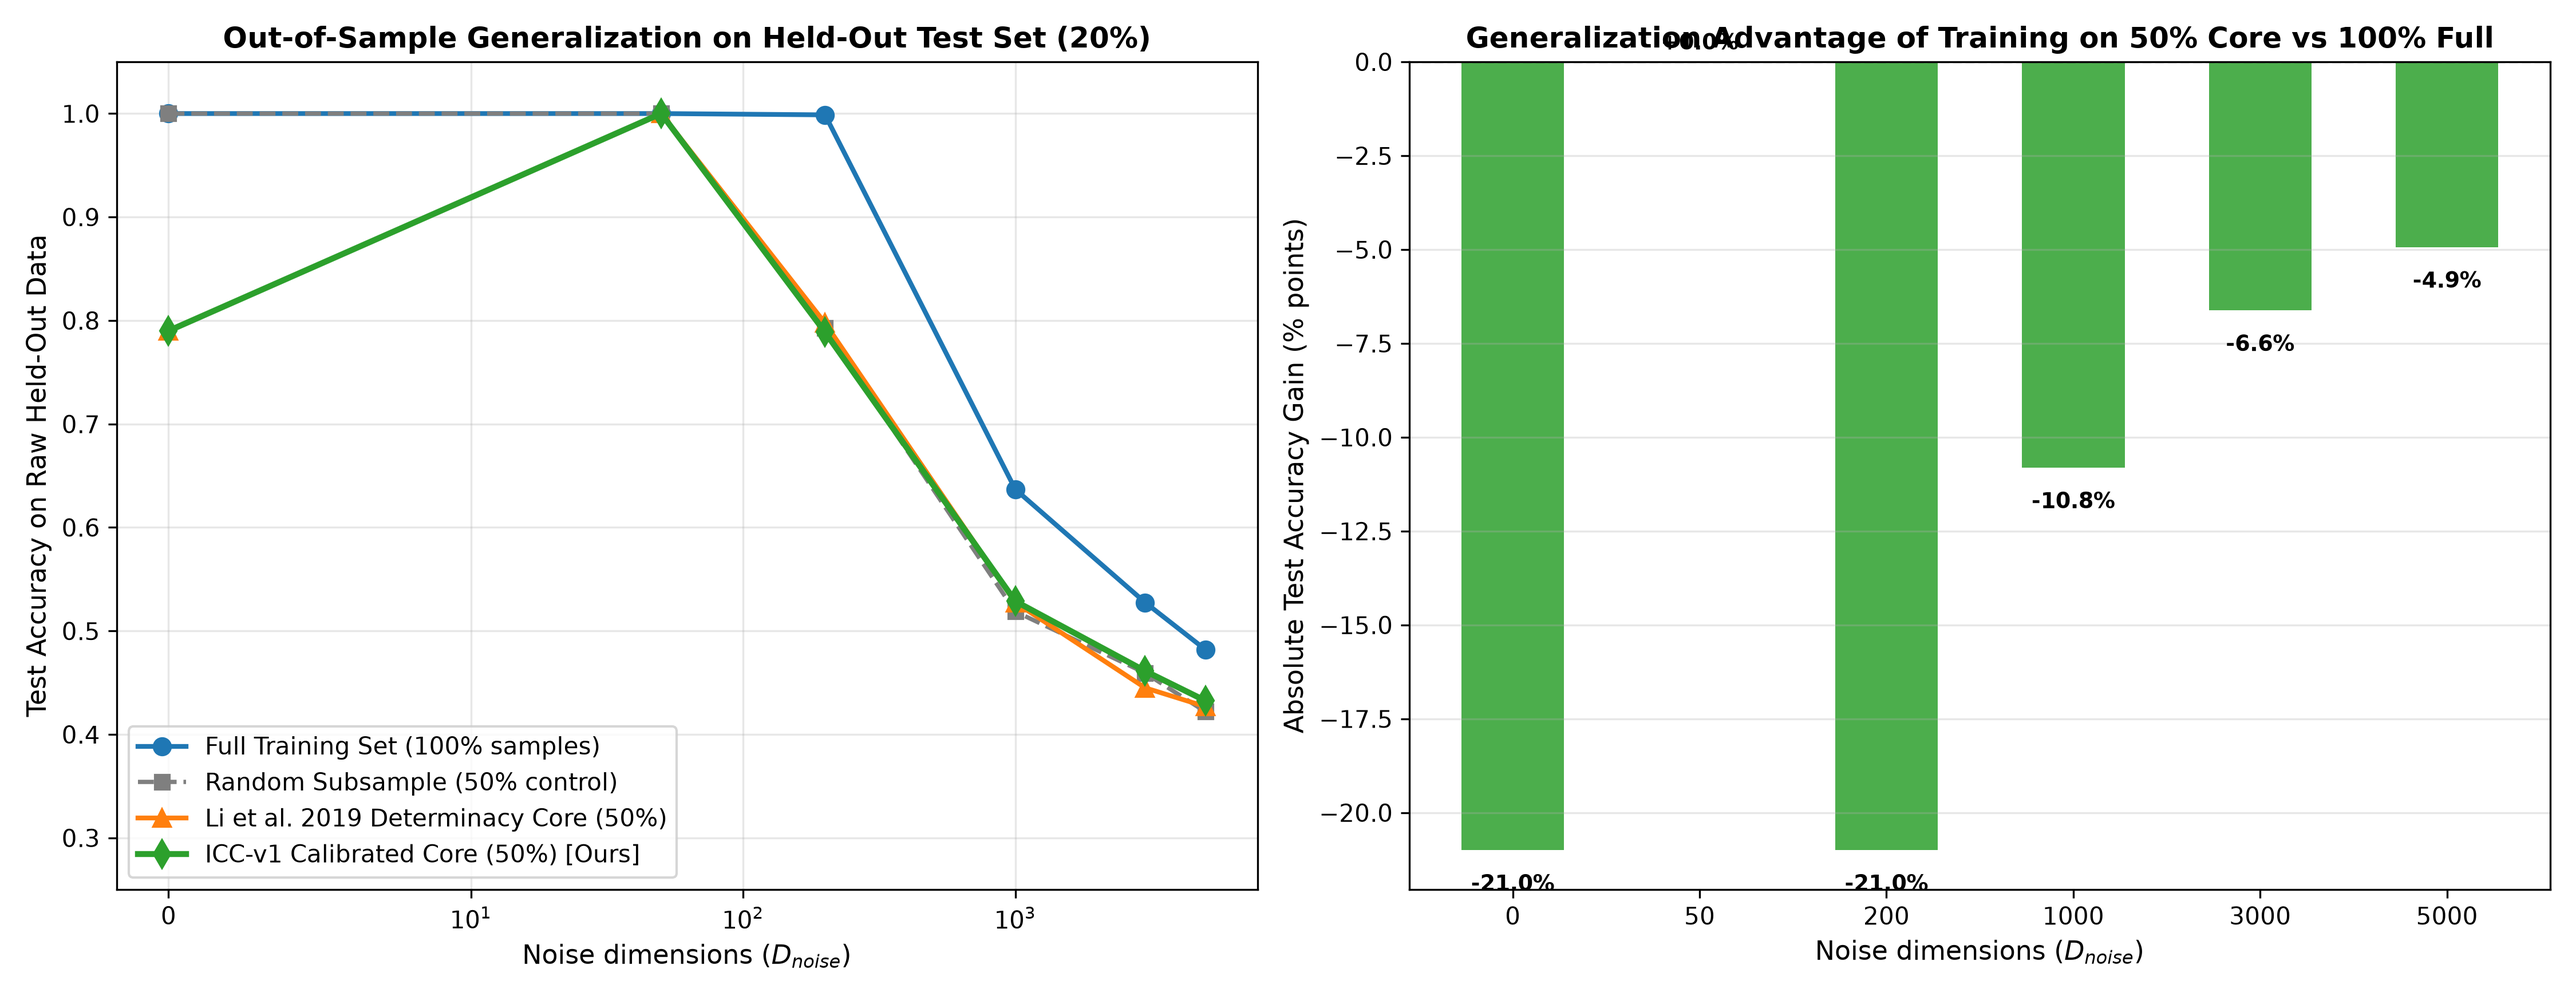
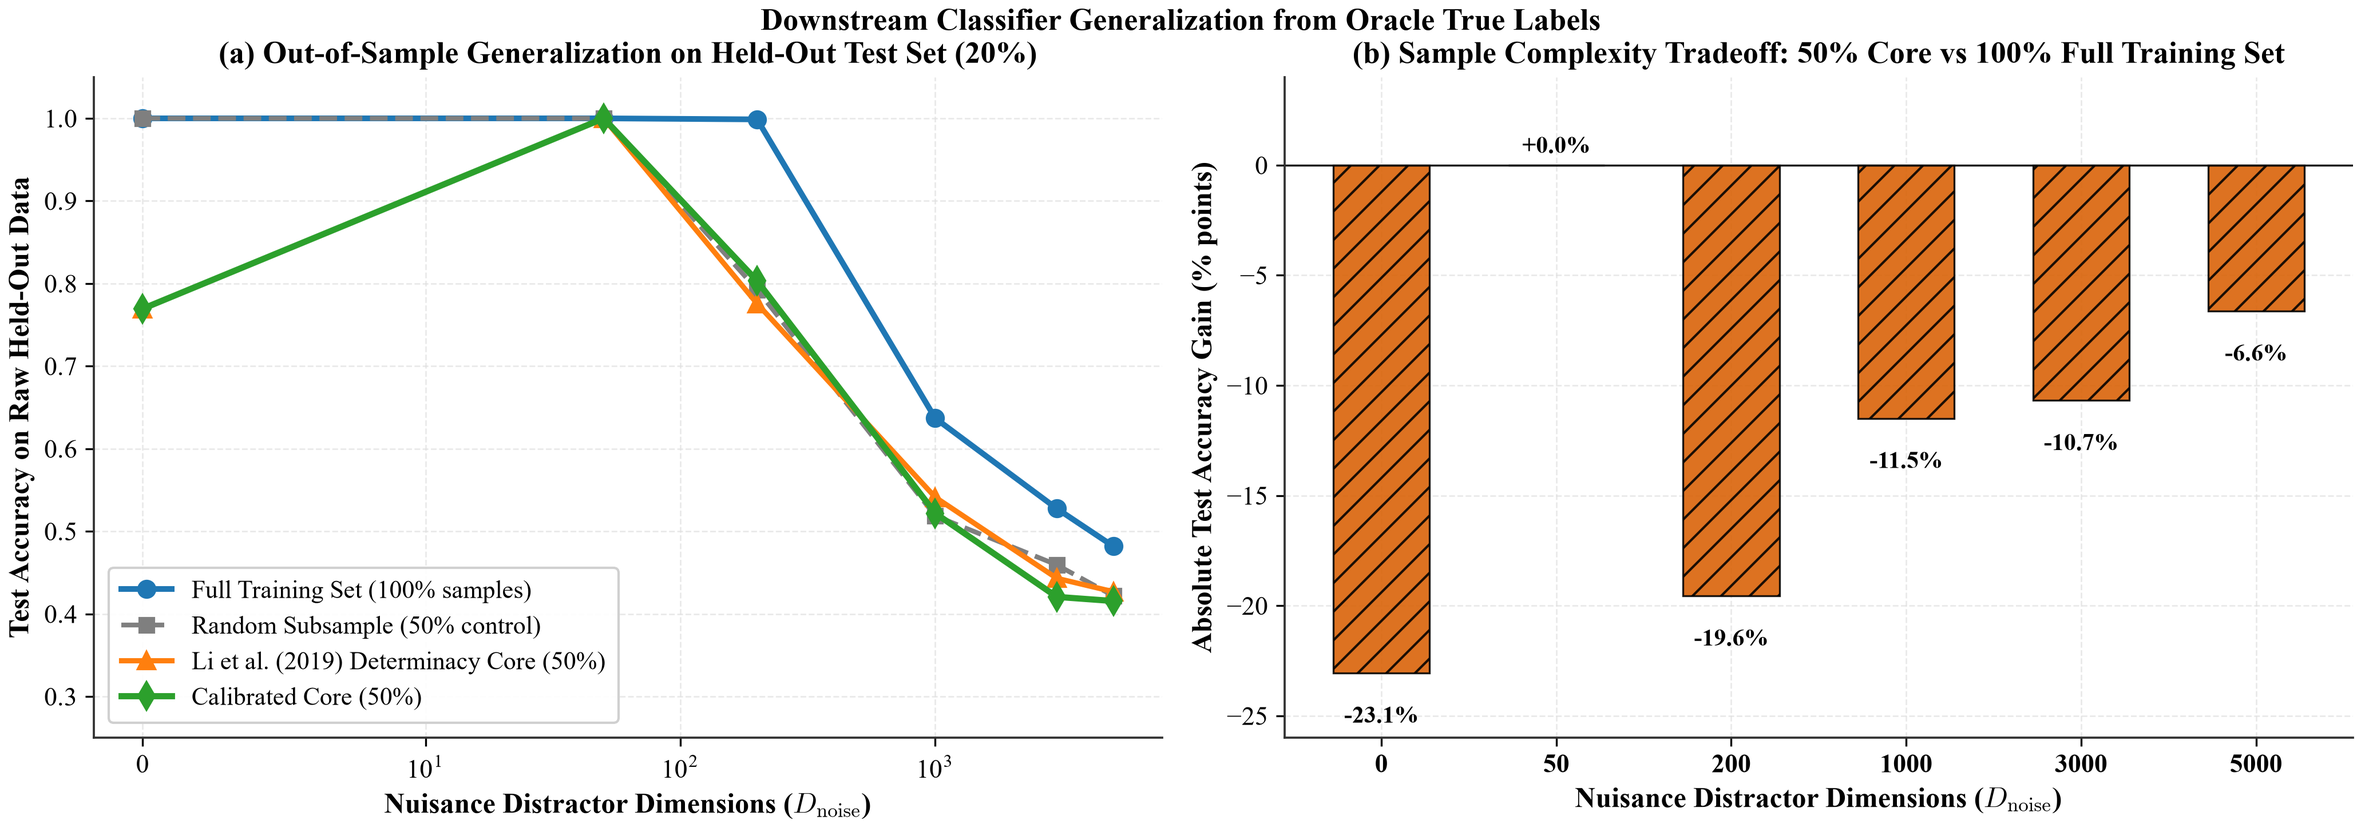
Update figures with subsampled data and clean model labels (remove [Ours] and ICC prefixes)

Changed region(s): [[0.0, 0.0, 0.9927, 0.9945], [0.8686, 0.5283, 0.8997, 0.5594], [0.4343, 0.5905, 0.4653, 0.6215]]

diff --git a/src/icc/viz_style.py b/src/icc/viz_style.py
@@ -15,7 +15,8 @@ import matplotlib.pyplot as plt
 MODEL_PALETTE = {
     "ICC_v2": "#d62728",
     "ICC-v2": "#d62728",
-    "ICC_v2 (Ours)": "#d62728",
+    "GAC Pipeline": "#d62728",
+    "GAC": "#d62728",
     "ICC_v2_exact": "#1f77b4",
     "ICC_v1": "#e377c2",
     "ICC-v1": "#e377c2",
@@ -45,7 +46,8 @@ MODEL_PALETTE = {
 MODEL_MARKERS = {
     "ICC_v2": "*",
     "ICC-v2": "*",
-    "ICC_v2 (Ours)": "*",
+    "GAC Pipeline": "*",
+    "GAC": "*",
     "ICC_v1": "o",
     "ICC-v1": "o",
     "FCAG": "s",
@@ -71,7 +73,8 @@ MODEL_MARKERS = {
 MODEL_LINESTYLES = {
     "ICC_v2": "-",
     "ICC-v2": "-",
-    "ICC_v2 (Ours)": "-",
+    "GAC Pipeline": "-",
+    "GAC": "-",
     "ICC_v1": "--",
     "ICC-v1": "--",
     "FCAG": "-.",

diff --git a/scripts/replot_fig2_subsample.py b/scripts/replot_fig2_subsample.py
@@ -65,8 +65,8 @@ for clus in algos:
              color=PALETTE.get(clus, "#000"), linewidth=2.0, markersize=6)
 
 for ax, title, ylab in [
-    (ax1, r"(a) Clustering Accuracy (ARI vs. Ground Truth)", "Adjusted Rand Index (ARI)"),
-    (ax2, r"(b) Subsample Stability (Stratified 80% Resampling)", "Subsample Stability (ARI)"),
+    (ax1, r"Clustering Accuracy (ARI vs. Ground Truth)", "Adjusted Rand Index (ARI)"),
+    (ax2, r"Subsample Stability (Stratified 80% Resampling)", "Subsample Stability (ARI)"),
 ]:
     ax.set_title(title, fontsize=12.0, fontweight="bold", pad=10)
     ax.set_xlabel(r"Noise Dimensions ($D_{\text{noise}}$)", fontsize=11.0, fontweight="bold")
